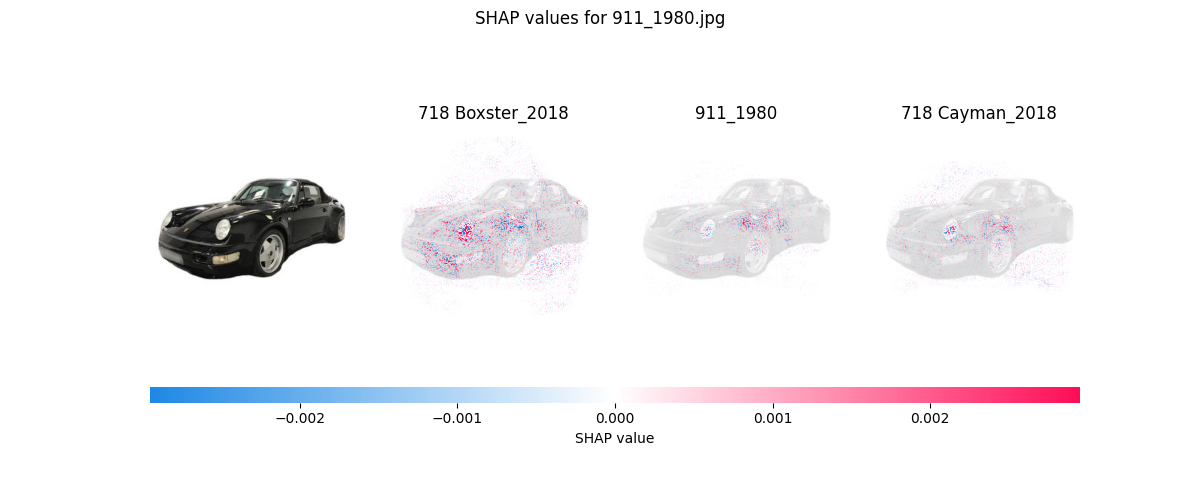
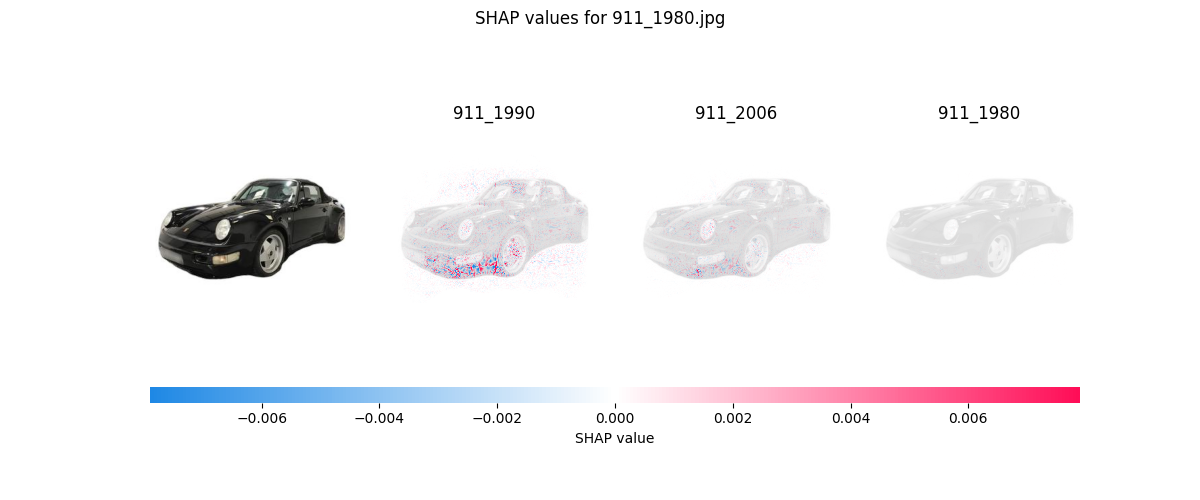
testet new model added results to readme

diff --git a/testing/shap/explainer.py b/testing/shap/explainer.py
@@ -6,8 +6,8 @@ from utilities.tools import *
 suppress_tf_warnings()
 
 # Load model (Compiling failed, so I compiled it manually)
-# model = keras.models.load_model("../../models/model_variants/vgg16-pretrained-model-variants.h5", compile=False)
-model = keras.models.load_model("../../models/car_types/best_model/vgg16-pretrained.h5", compile=False)
+model = keras.models.load_model("../../models/model_variants/efficientnet-old-head-model-variants-full_best_model.h5", compile=False)
+# model = keras.models.load_model("../../models/car_types/best_model/vgg16-pretrained.h5", compile=False)
 model.compile(optimizer='adam',
               loss=tf.keras.losses.SparseCategoricalCrossentropy(from_logits=True),
               metrics=['accuracy'])
@@ -15,8 +15,9 @@ model.compile(optimizer='adam',
 img_height = 300
 img_width = 300
 img_folder = '../test_pic'
+save_extension = "efficientnet-old-head-"
 # Set specific_model_variants to True if you want to test the model with specific Porsche model variants and years.
-specific_model_variants = False
+specific_model_variants = True
 path_addon = "Porsche_more_classes" if specific_model_variants else "Porsche"
 classes = MODEL_VARIANT if specific_model_variants else CAR_TYPE
 
@@ -59,6 +60,6 @@ with tf.device('/CPU:0'):
         # Remove file extension from image name
         name = name.split(".")[0]
         if specific_model_variants:
-            fig1.savefig(f"results/model_variants/shap_values_{name}.png")
+            fig1.savefig(f"results/model_variants/shap_values-{save_extension}_{name}.png")
         else:
-            fig1.savefig(f"results/car_types/shap_values_{name}.png")
+            fig1.savefig(f"results/car_types/shap_values-{save_extension}_{name}.png")

diff --git a/README.md b/README.md
@@ -51,6 +51,8 @@ I recommend to prepare the images with [prepare_images.py](testing/prepare_image
 To explain a model you can use the [explainer.py](testing/shap/explainer.py) script. You can choose the model and the image(folder) you want to get explanations.
 I recommend to prepare the images with [prepare_images.py](testing/prepare_images.py) before.
 
+After using shap values on the new efficientnet model and the vgg16 model, both on the old head, I found out that the vgg16 model found "better" spots to distinguish between classes, at least sometimes.
+
 ### Confusion matrix of a model
 The confusion matrix shows the performance of a classification model. It shows the number of correct and incorrect predictions made by a classifier.
 
